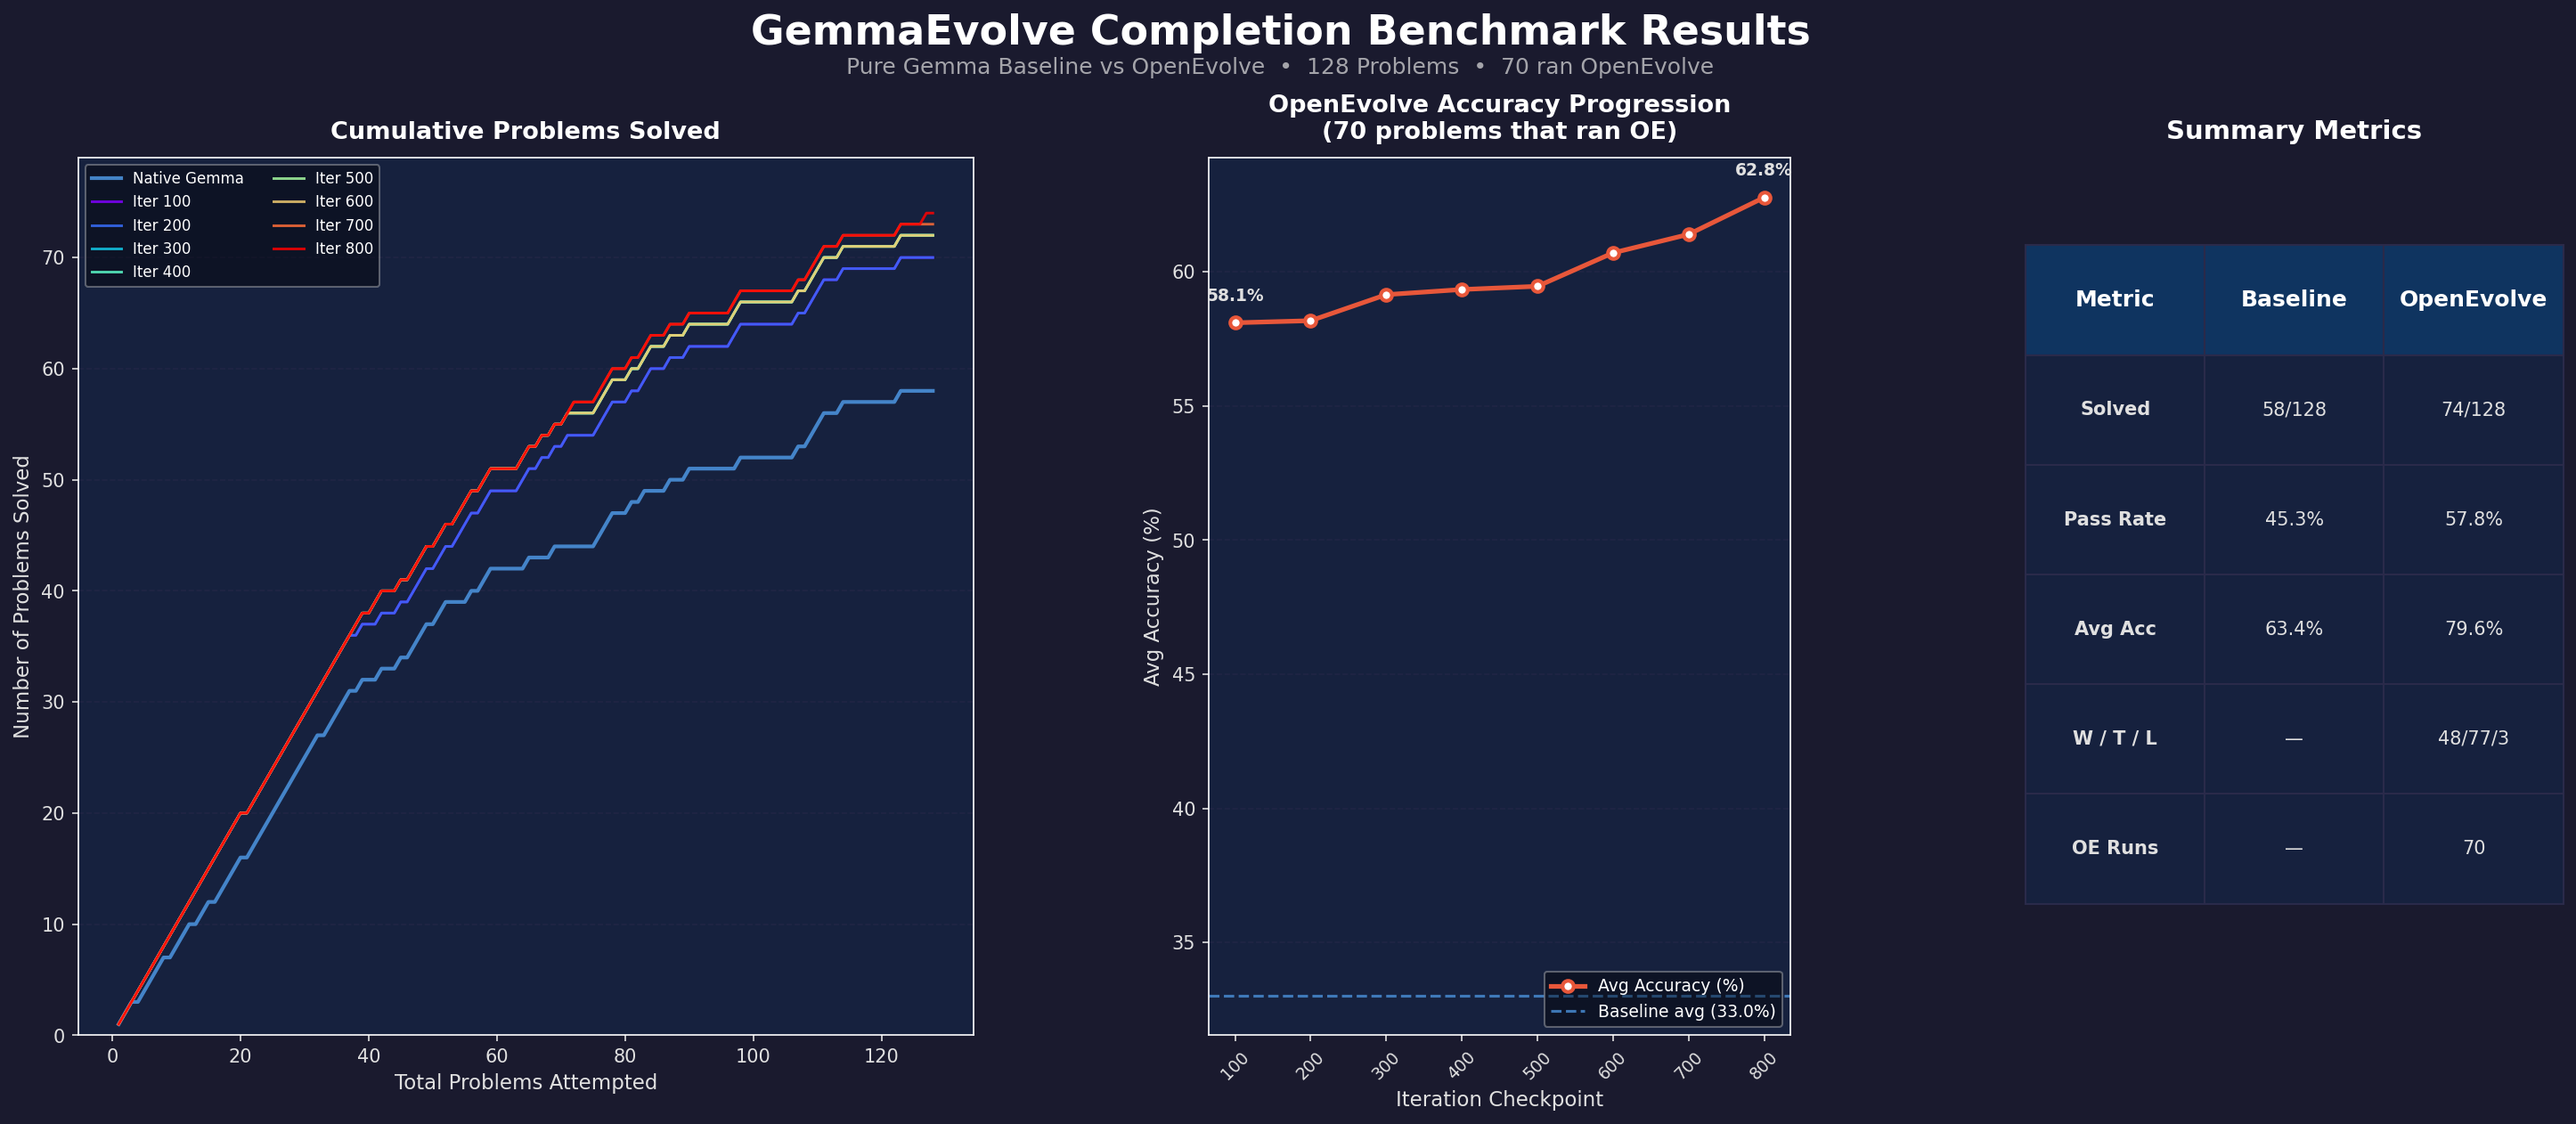
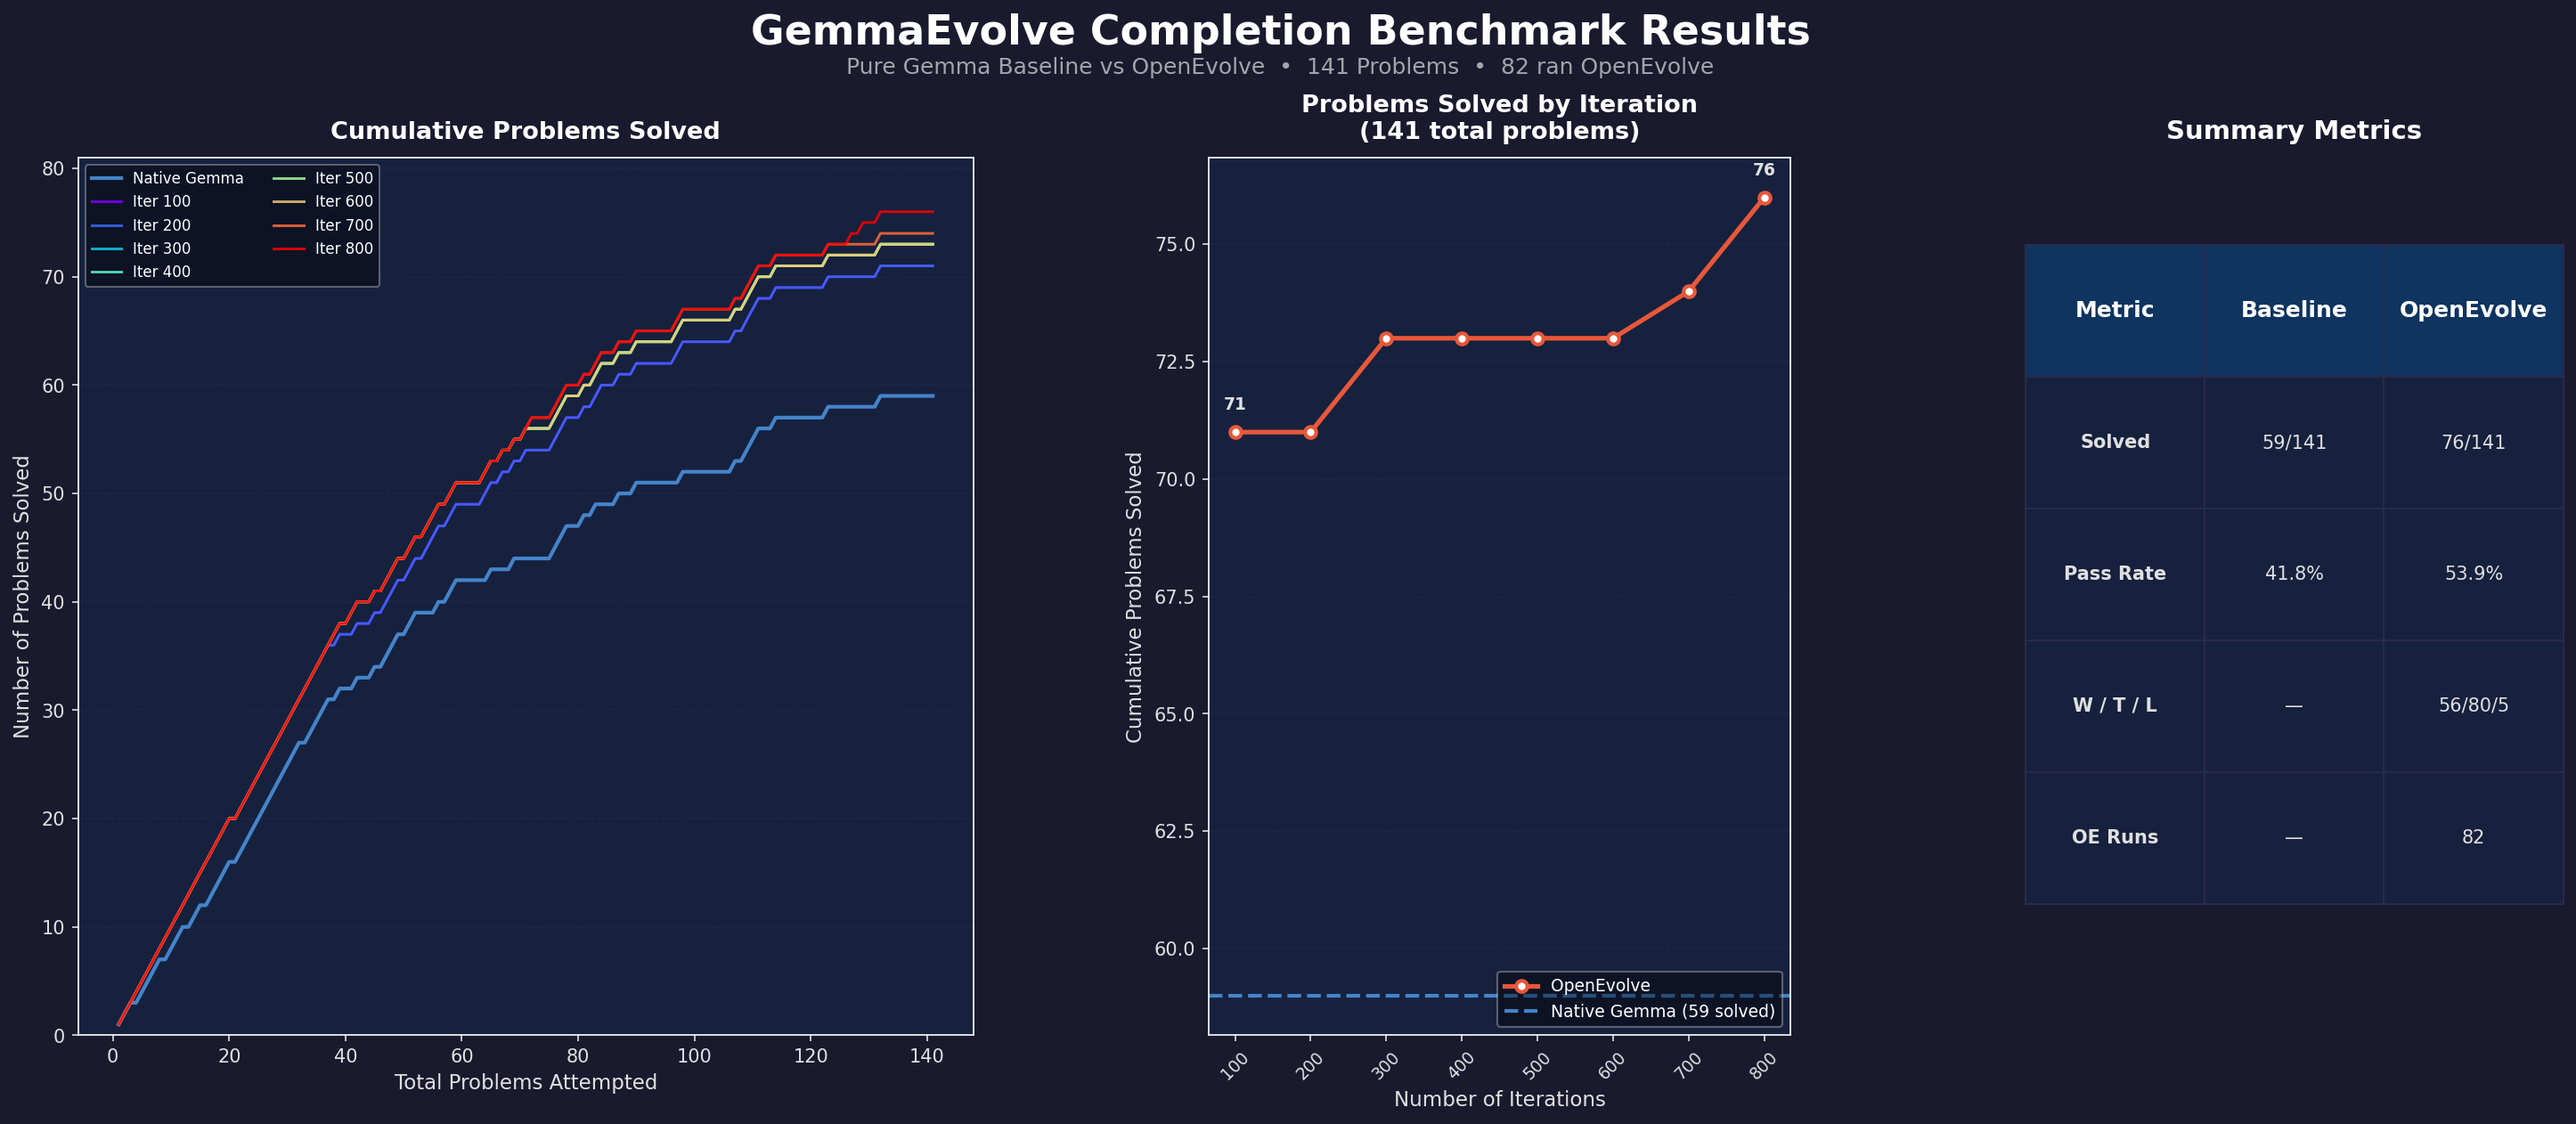
Changed benchmark chart

diff --git a/completion_benchmark_results_chart.py b/completion_benchmark_results_chart.py
@@ -139,31 +139,49 @@ def main():
     ax1.grid(axis='y', color=COLOR_GRID, linestyle='--', alpha=0.5, zorder=0)
     ax1.tick_params(colors=COLOR_TEXT)
 
-    # ===== Panel 2: Line chart – Accuracy progression iter 100-800 =====
+    # ===== Panel 2: Cumulative problems solved by iteration =====
     ax2 = fig.add_subplot(gs[0, 1])
     ax2.set_facecolor(COLOR_PANEL)
 
-    ix = np.arange(len(iter_labels))
-    ax2.plot(ix, [a * 100 for a in iter_avg_acc],
+    # Count how many problems are solved (accuracy >= 1.0) at each iteration checkpoint
+    iter_nums = [int(k.replace("iter_", "")) for k in ITER_KEYS]
+    cum_solved_by_iter = []
+    for key in ITER_KEYS:
+        solved_count = 0
+        for d in data:
+            oe = d.get("openevolve")
+            if oe == "skipped" or oe is None:
+                # Use baseline accuracy for problems that didn't run OpenEvolve
+                if d["baseline"]["accuracy"] >= 1.0:
+                    solved_count += 1
+            else:
+                if key in oe and oe[key]["accuracy"] >= 1.0:
+                    solved_count += 1
+        cum_solved_by_iter.append(solved_count)
+
+    ix = np.arange(len(iter_nums))
+    ax2.plot(ix, cum_solved_by_iter,
              color=COLOR_EVOLVE, linewidth=2.5, marker='o', markersize=6,
              markerfacecolor='white', markeredgecolor=COLOR_EVOLVE, markeredgewidth=2,
-             zorder=5, label='Avg Accuracy (%)')
-    ax2.axhline(y=oe_baseline_avg * 100, color=COLOR_BASELINE, linestyle='--',
-                linewidth=1.5, alpha=0.8, label=f'Baseline avg ({oe_baseline_avg*100:.1f}%)')
+             zorder=5, label='OpenEvolve')
+
+    # Horizontal line for Native Gemma's total solved problems
+    ax2.axhline(y=b_solved, color=COLOR_BASELINE, linestyle='--',
+                linewidth=2.0, alpha=0.9, label=f'Native Gemma ({b_solved} solved)')
 
     # Annotate first and last points
-    ax2.annotate(f'{iter_avg_acc[0]*100:.1f}%', (ix[0], iter_avg_acc[0]*100),
+    ax2.annotate(f'{cum_solved_by_iter[0]}', (ix[0], cum_solved_by_iter[0]),
                  textcoords="offset points", xytext=(0, 12), ha='center',
                  fontsize=9, color=COLOR_TEXT, fontweight='bold')
-    ax2.annotate(f'{iter_avg_acc[-1]*100:.1f}%', (ix[-1], iter_avg_acc[-1]*100),
+    ax2.annotate(f'{cum_solved_by_iter[-1]}', (ix[-1], cum_solved_by_iter[-1]),
                  textcoords="offset points", xytext=(0, 12), ha='center',
                  fontsize=9, color=COLOR_TEXT, fontweight='bold')
 
     ax2.set_xticks(ix)
-    ax2.set_xticklabels(iter_labels, fontsize=9, color=COLOR_TEXT, rotation=45)
-    ax2.set_xlabel("Iteration Checkpoint", fontsize=11, color=COLOR_TEXT)
-    ax2.set_ylabel("Avg Accuracy (%)", fontsize=11, color=COLOR_TEXT)
-    ax2.set_title(f"OpenEvolve Accuracy Progression\n({len(oe_problems)} problems that ran OE)",
+    ax2.set_xticklabels([str(i) for i in iter_nums], fontsize=9, color=COLOR_TEXT, rotation=45)
+    ax2.set_xlabel("Number of Iterations", fontsize=11, color=COLOR_TEXT)
+    ax2.set_ylabel("Cumulative Problems Solved", fontsize=11, color=COLOR_TEXT)
+    ax2.set_title(f"Problems Solved by Iteration\n({n} total problems)",
                   fontsize=13, fontweight='bold', color='white', pad=10)
     ax2.legend(fontsize=9, loc='lower right', framealpha=0.4)
     ax2.grid(axis='y', color=COLOR_GRID, linestyle='--', alpha=0.5, zorder=0)
@@ -178,7 +196,6 @@ def main():
         ["Metric",      "Baseline",           "OpenEvolve"],
         ["Solved",      f"{b_solved}/{n}",     f"{e_solved}/{n}"],
         ["Pass Rate",   f"{b_pass:.1f}%",      f"{e_pass:.1f}%"],
-        ["Avg Acc",     f"{avg_b_acc:.1f}%",   f"{avg_e_acc:.1f}%"],
         ["W / T / L",   "—",                   f"{wins}/{ties}/{losses}"],
         ["OE Runs",     "—",                   f"{len(oe_problems)}"],
     ]

diff --git a/run_completion_benchmark.py b/run_completion_benchmark.py
@@ -250,12 +250,13 @@ def run_openevolve(problem_dir: str, config_path: str, max_iterations: int, save
     else:
         initial_program = os.path.join(problem_dir, "initial_program.v")
 
+    remaining_iterations = max_iterations
+
     cmd = [
         sys.executable, "-m", "openevolve.cli",
         initial_program,
         evaluator_script,
         "--config", temp_config_path,
-        "--iterations", str(max_iterations),
         "--checkpoint-interval", str(save_freq),
         "--log-level", "DEBUG"
     ]
@@ -275,7 +276,17 @@ def run_openevolve(problem_dir: str, config_path: str, max_iterations: int, save
             # Use checkpoint path to resume
             cp_path = os.path.join(checkpoint_dir, latest_cp)
             cmd.extend(["--checkpoint", cp_path])
-            print(f"  Found existing checkpoint {latest_cp}. Resuming OpenEvolve from iteration {latest_iter}...")
+            
+            # Calculate remaining iterations to achieve total max_iterations
+            remaining_iterations = max(0, max_iterations - latest_iter)
+            print(f"  Found existing checkpoint {latest_cp}. Resuming OpenEvolve from iteration {latest_iter} (running {remaining_iterations} more)...")
+
+            if remaining_iterations == 0:
+                print(f"  Already reached {max_iterations} iterations at {latest_cp}. Not running OpenEvolve.")
+                # We can just return immediately or run for 0 iterations to parse the log. 
+                # OpenEvolve handles 0 iterations by just exiting gracefully.
+                
+    cmd.extend(["--iterations", str(remaining_iterations)])
 
     # Create timestamped log file
     os.makedirs(LOGS_DIR, exist_ok=True)

diff --git a/patchnotes/fix-2026-03-11.md b/patchnotes/fix-2026-03-11.md
@@ -1,0 +1,13 @@
+# OpenEvolve Updates - 2026-03-11
+
+## Iteration Checkpoint & Resume Capabilities
+We introduced robust, state-saving enhancements to the OpenEvolve framework today to protect your long-running benchmark sessions from critical interruptions. Instead of throwing out all evolutionary progress when closing a run mid-way, you can now seamlessly resume exactly where you left off. 
+
+### Key Capabilities Added
+1. **Configurable Save Frequency.** Through the newly added `--checkpoint-interval` CLI flag (and `--save-freq` flag on the benchmarking script), you tell OpenEvolve exactly how often to serialize the progress snapshot down to disk (island configurations, score metrics, program definitions). 
+
+2. **Auto-Resume Integration.** `run_completion_benchmark.py` will now automatically detect `checkpoints/checkpoint_*` directories inside previously attempted problem runs. If you restart an interrupted test, it parses the latest saved iteration and calculates how much further it needs to compute from that point to reach your global limit!
+
+3. **Infinite Extension.** Want to throw 800 extra iterations on problems that were getting close to solving? You can simply launch the benchmark tool using a higher `--iterations` flag. If it was resting continuously on an existing `checkpoint_800`, the tool effortlessly calculates the mathematics and asks the OpenEvolve controller to run `max_iterations - latest_checkpoint` *more* evolutionary loops. 
+
+> *Note: By default, the `max_iterations` limit remains 800 and the checkpoint frequency is every 100 loops.*
